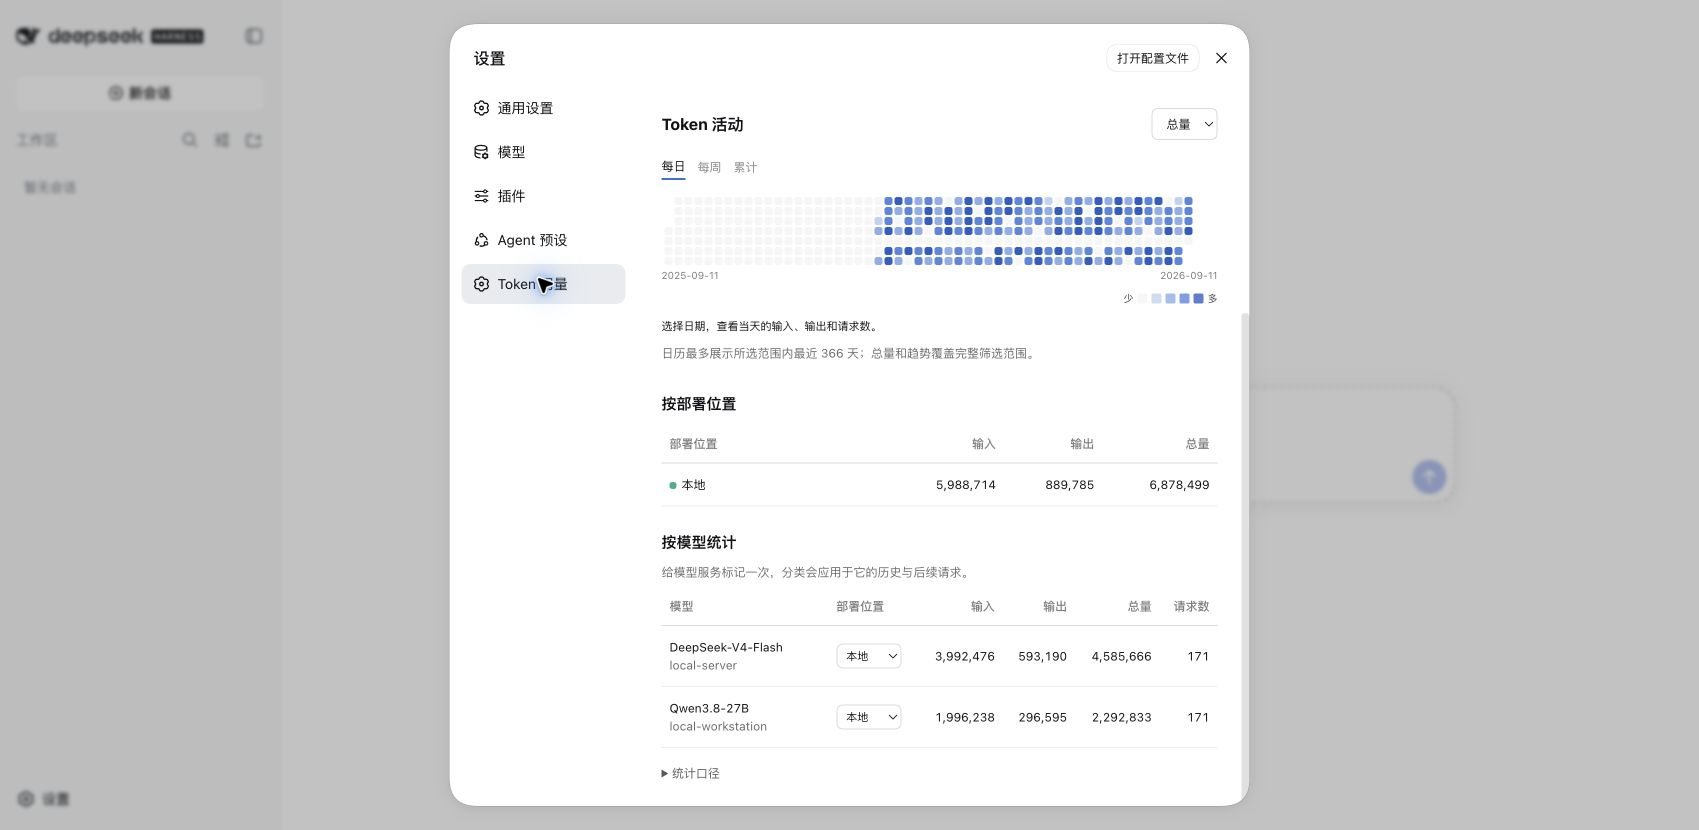
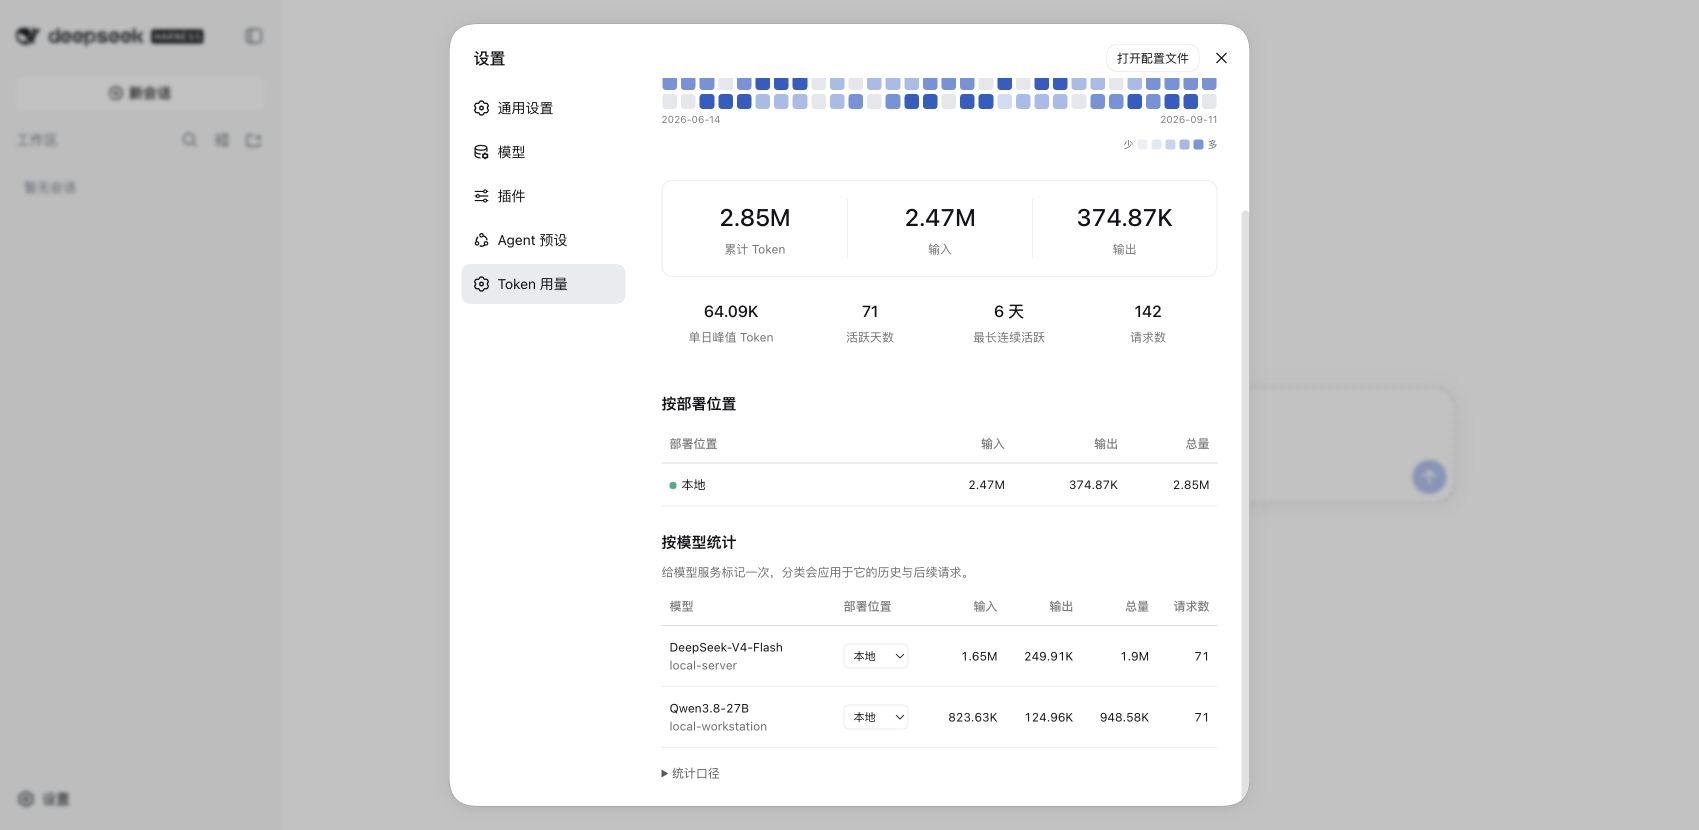
Refresh release documentation for local and cloud token usage

diff --git a/README.md b/README.md
@@ -1,16 +1,14 @@
 # DSH Token Usage
 
-
-The dashboard defaults to 90 days and offers a 30-day view. Every date has a square, including dates without recorded requests (soft gray-white). Active days use four blue levels relative to the selected peak. Token counts use K / M / B; hover for exact integers or export JSON for full precision.
 English · [简体中文](README.zh-CN.md)
 
-**Know how many tokens each DSH model uses—and how many your local models generate.**
+**See input and output token usage for every model, across local and cloud services.**
 
-A standalone DeepSeek Harness plugin with persistent, cross-session accounting. Open **Settings → Token usage** to explore daily trends and usage by provider, model, and local/cloud deployment.
+A standalone DeepSeek Harness plugin with persistent, cross-session accounting. Open **Settings → Token usage** for activity, totals, and a breakdown by model and deployment.
 
-![Token usage dashboard](https://raw.githubusercontent.com/geecraft23/dsh-token-usage/main/docs/images/overview.png)
+![Token activity and input/output overview](https://raw.githubusercontent.com/geecraft23/dsh-token-usage/main/docs/images/overview.png)
 
-> Screenshots show demonstration data in an isolated DSH instance, not measured model inference.
+> Screenshots use synthetic records in an isolated DSH instance. They demonstrate the interface, not measured inference.
 
 ## Install
 
@@ -28,18 +26,31 @@ Install separately in other profiles by replacing `web`. Profiles sharing `DSH_H
 
 Deployment and token direction are independent: choose **All / Local / Cloud**, then inspect **Total / Input / Output** using the same accounting rules. The redesigned dashboard adds an activity calendar, weekly and cumulative views, peak daily usage, active days, and longest active streak. Filter an exact provider-model route and export the selection.
 
-Existing ledger records and saved classifications are retained. Old `online` / `offline` configuration values remain accepted; new configuration can use `cloud` / `local`. JSON exports use `formatVersion: 2` and `cloud` / `local` source values. No database migration is required.
+Existing records and classifications are retained without a database migration. New configuration and JSON exports use `local` / `cloud`; exports carry `formatVersion: 2`. See [configuration compatibility](docs/accounting.zh-CN.md#配置兼容) when upgrading older configuration.
 
 ## Features
 
 - **Per-model accounting:** group by provider and model, keeping identical model names on different services separate.
 - **Local/cloud classification:** assign a source to each route; changes apply to historical and future records. Unknown routes remain unclassified.
 - **Independent dimensions:** compare local and cloud input, output and totals using the same columns.
-- **Trends and export:** 7-day, 30-day, all-time, and custom date ranges, source filters, and JSON export.
+- **Activity first:** 90 days by default, with 30-day, all-time, and custom ranges. Every date has a rounded tile: soft gray means no recorded requests; four blue levels show usage relative to the selected peak.
+- **Readable numbers:** K for thousands, M from one million, B from one billion. Hover for exact counts; JSON exports keep complete integers.
+- **Trends and export:** daily, weekly, and cumulative views; filter deployment and model independently, then export the selection.
 - **Durable local storage:** SQLite survives restarts and session deletion. Missing usage, failures, and unfinished requests remain visible.
 - **Native settings page:** English and Chinese copy, with DSH light/dark theme support.
 
 ![Local model filter](https://raw.githubusercontent.com/geecraft23/dsh-token-usage/main/docs/images/local.png)
+
+## Local / cloud and input / output
+
+These are independent dimensions. Local and cloud each have input, output, and total tokens:
+
+| Deployment | Input | Output | Total |
+| --- | --- | --- | --- |
+| Local | Tokens sent to self-managed models | Tokens returned by those models | Input + output |
+| Cloud | Tokens sent to hosted model services | Tokens returned by those services | Input + output |
+
+The calendar follows the selected period, deployment, model, and token metric. All-time and custom calendars show up to 366 days; totals and trends cover the full selection. Dates before tracking began have no records. Requests with unreported usage remain visible as activity, but their unknown token counts are not estimated.
 
 ## Accounting and privacy
 

diff --git a/README.zh-CN.md b/README.zh-CN.md
@@ -1,16 +1,14 @@
 # DSH Token Usage
 
-
-活动图默认显示近 90 天，可切换近 30 天，每天都有一个格子；没有请求记录的日期为浅灰白色，有活动的日期按当前筛选范围的峰值分为四档蓝色。Token 默认以 K 显示，达到百万用 M、十亿用 B；悬停查看精确数值，JSON 导出保留完整整数。
 [English](README.md) · 简体中文
 
-**在 DSH 里看清每个模型用了多少 token，以及本地模型一共输出了多少。**
+**看清每个模型的输入与输出，分开统计本地和云端用量。**
 
-这是 DeepSeek Harness 的独立插件。在 **设置 → Token 用量** 中查看跨会话累计、每日趋势，以及按服务和模型划分的云端／本地用量。
+这是 DeepSeek Harness 的独立插件。在 **设置 → Token 用量** 中查看跨会话累计、Token 活动，以及按模型和部署位置划分的用量。
 
-![DSH Token 用量总览](https://raw.githubusercontent.com/geecraft23/dsh-token-usage/main/docs/images/overview.png)
+![Token 活动及输入输出总览](https://raw.githubusercontent.com/geecraft23/dsh-token-usage/main/docs/images/overview.png)
 
-> 截图使用隔离环境中的演示数据，展示产品功能，不代表真实模型推理结果。
+> 截图使用隔离 DSH 环境中的演示数据，展示产品功能，不代表真实模型推理结果。
 
 ## 安装
 
@@ -28,17 +26,30 @@ dsh plugin --profile web add @geecraft23/dsh-token-usage@0.2.0
 
 **部署位置和输入／输出是两个独立维度。** 先选「全部／本地／云端」，再用同一口径查看总量、输入和输出。新版加入活动热力图、每周和累计视图、单日峰值、活跃天数及最长连续活跃天数；支持筛选具体的服务＋模型组合并导出。
 
-历史记录与已保存的分类继续保留，无需迁移账本。旧配置 `online` / `offline` 仍可使用，新配置支持 `cloud` / `local`。JSON 导出升级为 `formatVersion: 2`，来源字段使用 `cloud` / `local`。
+历史记录与已保存的分类继续保留，无需迁移账本。新配置和 JSON 导出使用 `local` / `cloud`，导出格式为 `formatVersion: 2`。旧配置的升级方式见[配置兼容](docs/accounting.zh-CN.md#配置兼容)。
 
 ## 功能
 
 - **按模型统计**：provider 与 model 联合分组，同名模型在不同服务下独立统计。
 - **云端／本地分类**：在模型行手动选择，历史与后续记录一起更新；不能判断的服务保留为未分类。
 - **统一口径对比**：本地和云端均提供输入、输出和总量，部署位置与 Token 方向独立筛选。
-- **趋势与导出**：近 7 天、30 天、全部、自选日期和来源筛选，支持 JSON 导出。
+- **活动图置顶**：默认近 90 天，可选近 30 天、全部时间和自选日期。每天一个柔和圆角色块；浅灰表示没有请求记录，四档蓝色按所选范围的用量峰值逐级加深。
+- **数字更易读**：默认用 K，达到百万用 M、十亿用 B。悬停查看完整数字，JSON 导出保留精确整数。
+- **趋势与导出**：每日、每周和累计视图；按部署位置和模型独立筛选，再导出当前结果。
 - **持久保存**：本地 SQLite；重启或删除会话不清空统计。可显示缺失上报、失败及未结束请求。
 
 ![仅查看本地模型](https://raw.githubusercontent.com/geecraft23/dsh-token-usage/main/docs/images/local.png)
+
+## 本地／云端与输入／输出
+
+这两组分类互不替代：本地和云端都有输入、输出与总量。
+
+| 部署位置 | 输入 | 输出 | 总量 |
+| --- | --- | --- | --- |
+| 本地 | 发送给自行管理模型的 Token | 这些模型返回的 Token | 输入＋输出 |
+| 云端 | 发送给托管模型服务的 Token | 这些服务返回的 Token | 输入＋输出 |
+
+活动图跟随时间、部署位置、模型和 Token 指标筛选。全部时间与自选日期的活动图最多展示 366 天，总量与趋势覆盖完整筛选范围。插件启用前的日期没有记录；已发生请求但未返回用量的日期仍显示为有活动，不估算未知 Token 数量。
 
 ## 数字代表什么
 

diff --git a/docs/validation.md b/docs/validation.md
@@ -1,6 +1,6 @@
 # Validation
 
-Target: DSH 0.1.5-rc.1, Cordis 4.0.2, Node.js 24.20.0, pnpm 11.7.0, macOS. Date: 2026-09-10.
+Target: DSH 0.1.5-rc.1, Cordis 4.0.2, Node.js 24.20.0, pnpm 11.7.0, macOS. Date: 2026-09-11.
 
 ## Automated checks
 
@@ -19,3 +19,5 @@ Screenshots use synthetic records in a separate test ledger to show trends and f
 New checks cover independent deployment and token-direction selection, exact provider-model filtering, empty intersections, local/cloud export vocabulary, legacy configuration support, year-boundary streaks, leap days, fixed-offset date boundaries, missing weeks and the 366-day calendar limit. Activity days count observed requests, including requests without usage. Peaks and streaks follow the selected period and route. The calendar includes zero-activity days; weekly views retain empty weeks. Cumulative values use all measured days in the selection. Longest chat duration and plugin/skill usage are not derived from token records.
 
 The default 90-day and optional 30-day views retain every date even with no requests. UI tests cover relative color levels and K/M/B formatting. On 2026-09-11 the installed Web profile rendered 30 cells (29 empty), then 90 cells (89 empty), with white inactive dates and 2.49M total tokens. Exact-value tooltips and numeric JSON exports retain full precision.
+
+The 0.2.0 release screenshots were captured from the current plugin in an isolated DSH Web profile using synthetic records. They show the 90-day activity grid with filled rounded tiles, compact counters, local/cloud totals, and local model input/output rows. Both READMEs and the npm description use local/cloud terminology; legacy field names are documented only under configuration compatibility.

diff --git a/docs/accounting.zh-CN.md b/docs/accounting.zh-CN.md
@@ -36,6 +36,10 @@ DSH 的 `inputTokens` 是**未缓存输入**。本插件展示的输入＝未缓
 
 规则使用精确 provider ID，可增加 `model` 只匹配一个模型。精确模型规则优先于 provider 规则，设置页保存的分类优先于规则。未知配置和不支持的账本版本会拒绝加载。
 
+## 配置兼容
+
+新配置使用 `source: local`（本地）、`source: cloud`（云端）或 `source: unclassified`（未分类）。旧配置的 `offline` 对应本地，`online` 对应云端，仍可加载。账本内部保留旧标识以延续历史记录；页面统一显示本地／云端，JSON 导出使用新标识与 `formatVersion: 2`。这些兼容字段不表示输入或输出方向。
+
 ## 开发
 
 ```sh
